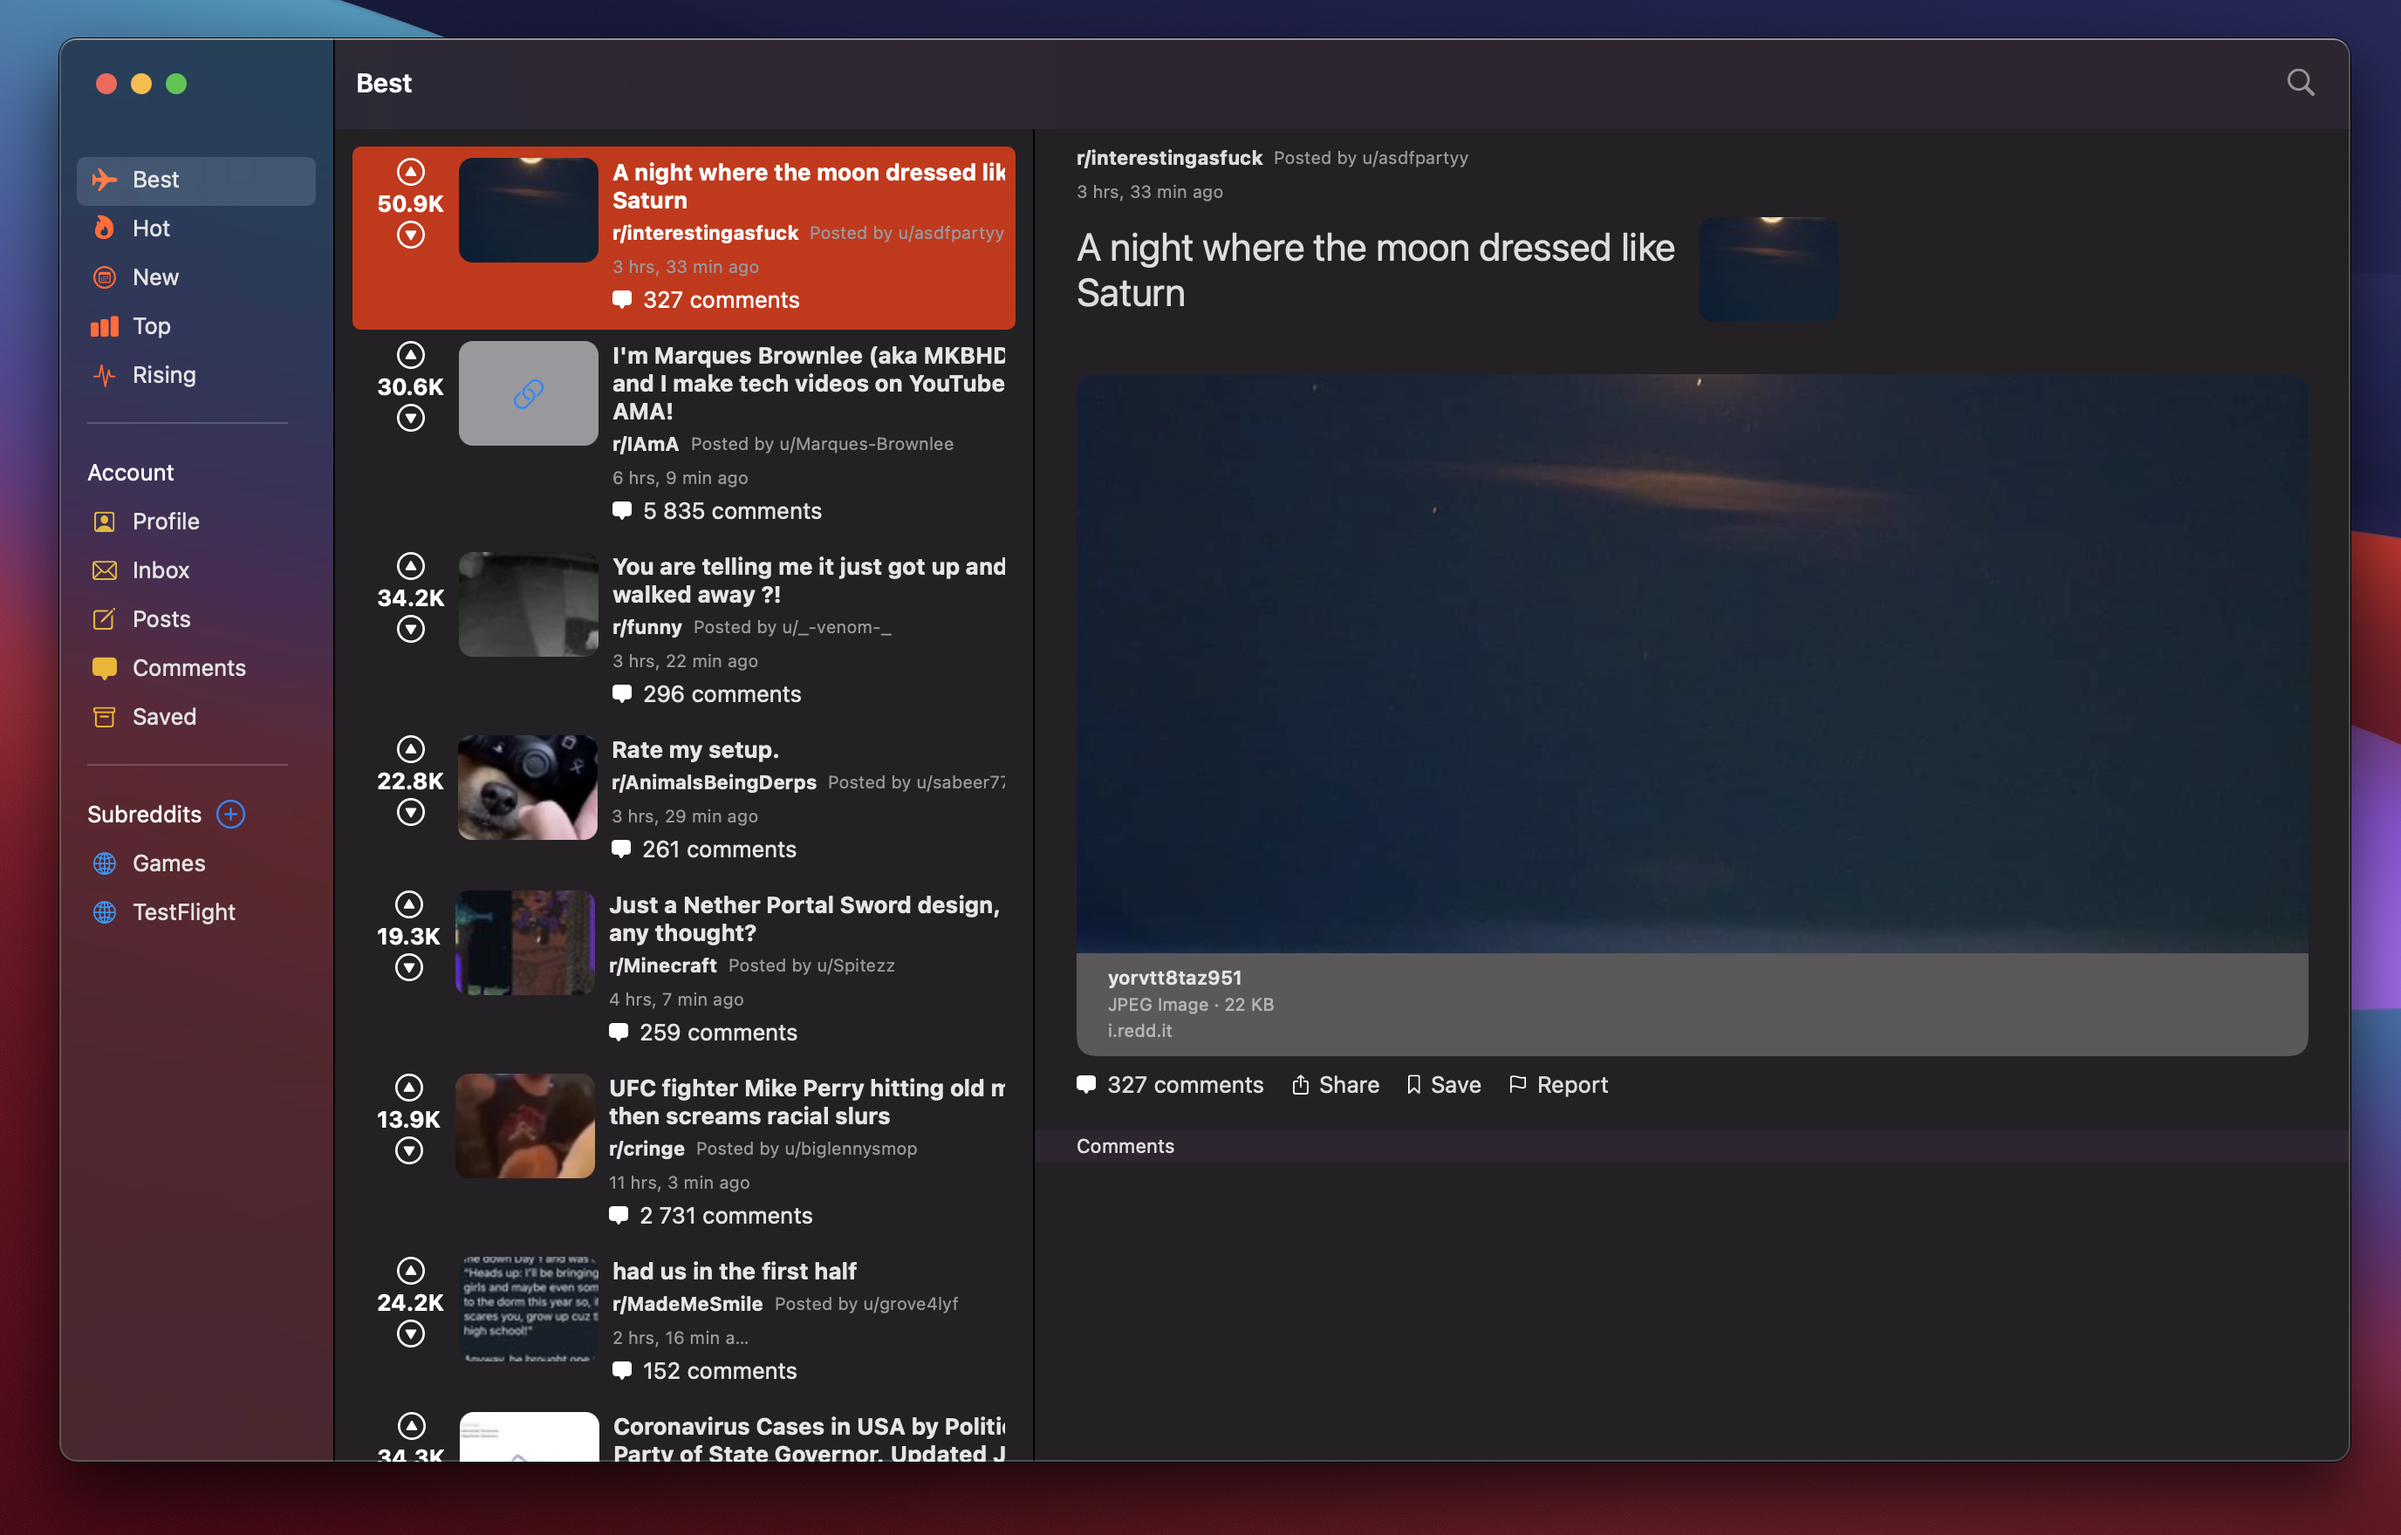
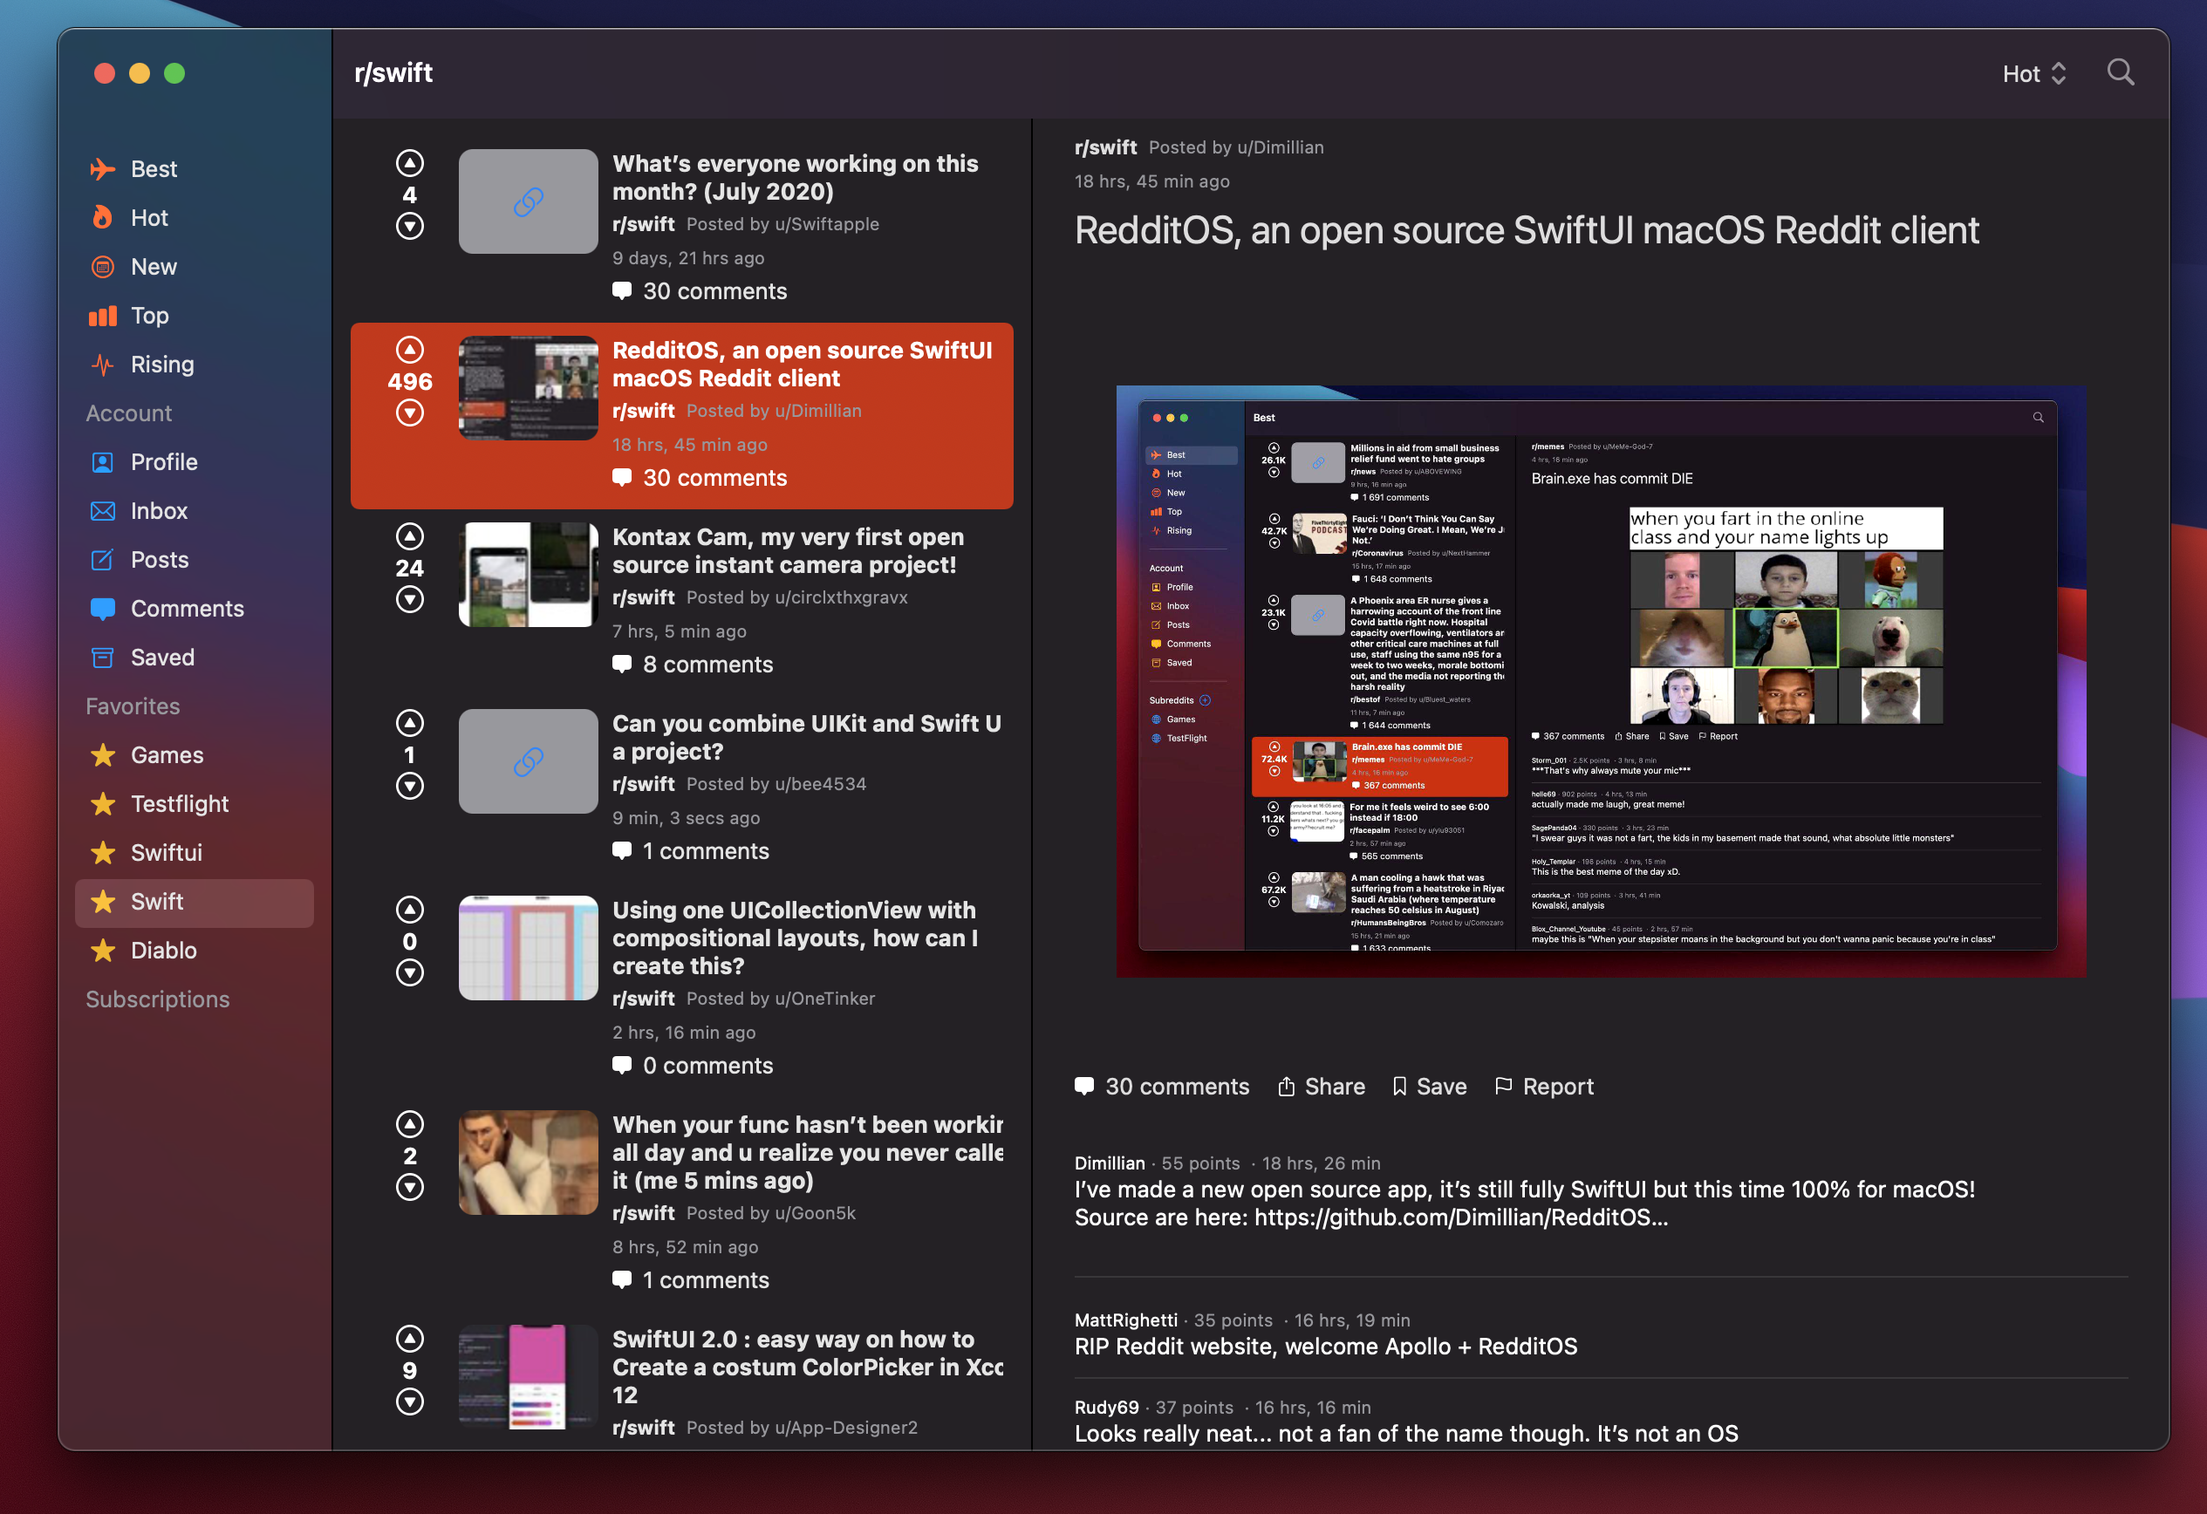
Update image

diff --git a/RedditOs/Features/Post/PostDetailContent.swift b/RedditOs/Features/Post/PostDetailContent.swift
@@ -36,7 +36,8 @@ struct PostDetailContent: View {
                         .indicator(.activity)
                         .aspectRatio(contentMode: .fit)
                         .background(Color.gray)
-                        .frame(minWidth: 300, minHeight: 200)
+                        .frame(maxHeight: 400)
+                        .padding()
                     Spacer()
                 }
             } else {
